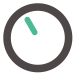
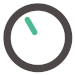
ci: 🎡 Iconen en omschrijving aangepast. 1e versie in Appstore

diff --git a/drivers/music-player/device.ts b/drivers/music-player/device.ts
@@ -372,7 +372,7 @@ class VolumioMusicPlayerDevice extends Homey.Device {
     this.log(`Volumio music player was renamed: ${name} `);
   }
 
-  /**
+  /*
    * onDeleted is called when the user deleted the device.
    */
   async onDeleted() {

diff --git a/README.md b/README.md
@@ -1,3 +1,2 @@
 # Volumio
-
-Bestuur je Volumio speler met Homey
+All your music in one place
